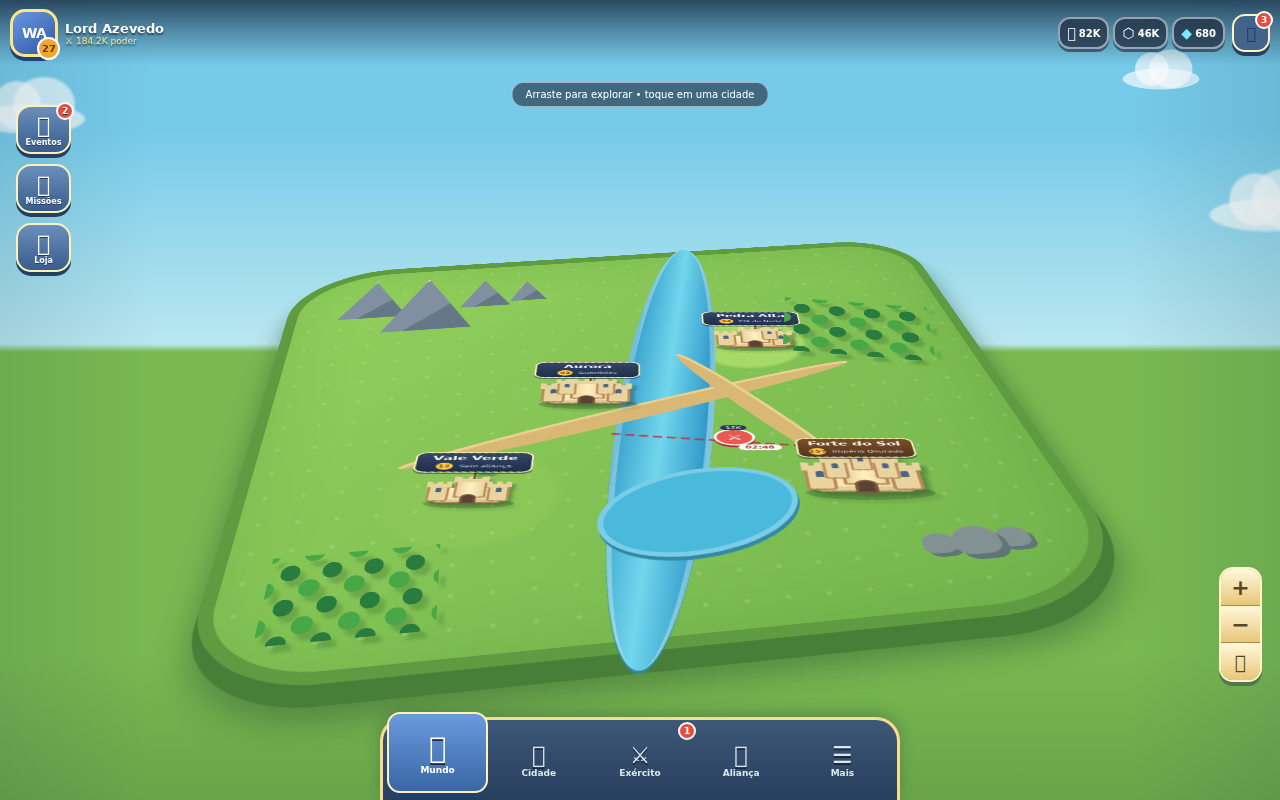
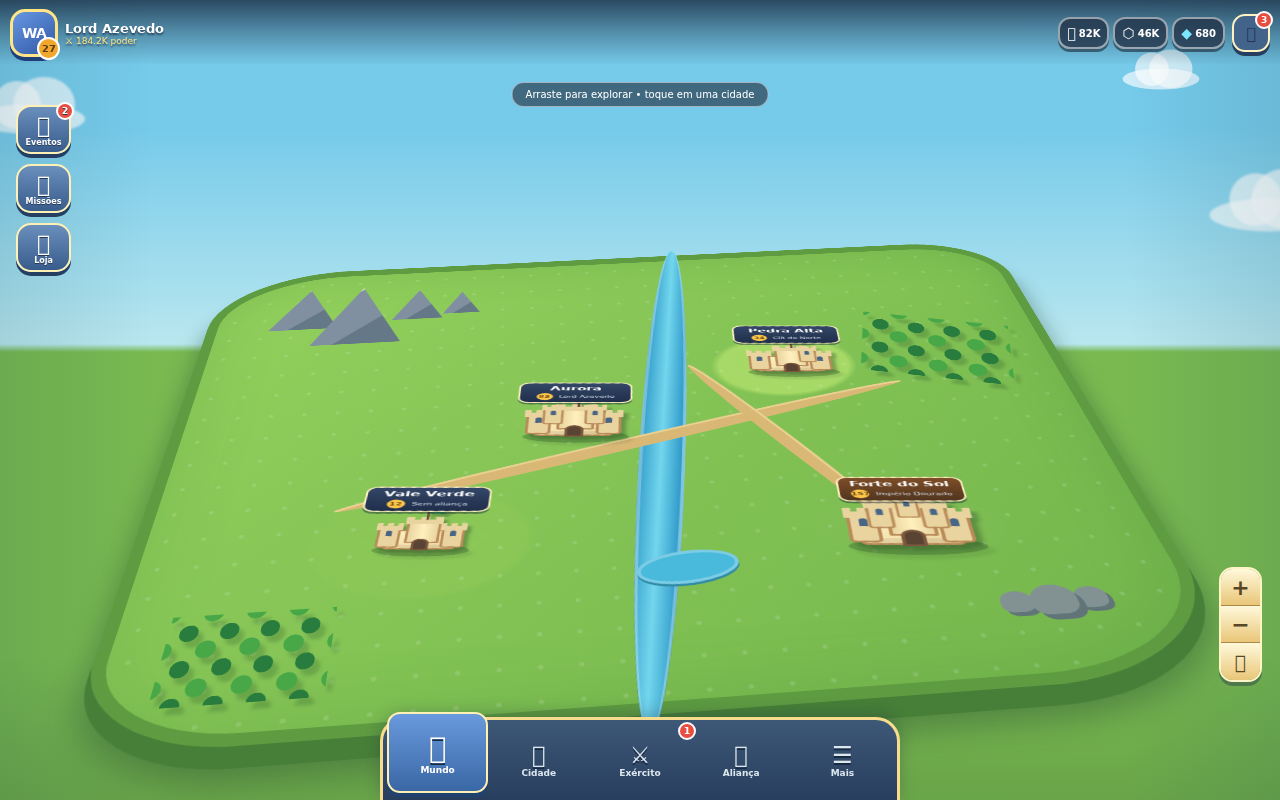
Rebalance world map proportions

Changed region(s): [[0.0625, 0.2812, 0.9688, 1.0]]

diff --git a/styles.css b/styles.css
@@ -13,13 +13,13 @@ button { color:inherit; font:inherit; -webkit-tap-highlight-color:transparent; }
 .clouds i::before { width:48px;height:48px;left:18px;bottom:5px }.clouds i::after { width:62px;height:55px;right:10px;bottom:2px }
 .clouds i:nth-child(1){top:13%;left:-25px}.clouds i:nth-child(2){top:8%;right:5%;transform:scale(.7)}.clouds i:nth-child(3){top:25%;right:-45px;transform:scale(1.1)}
 
-.world { --pan-x:0px;--pan-y:20px;--zoom:.88; position:absolute; z-index:1; top:48%; left:50%; width:950px; height:760px; transform:translate(calc(-50% + var(--pan-x)),calc(-50% + var(--pan-y))) scale(var(--zoom)); transform-origin:center; transition:transform .12s ease-out; perspective:1100px; }
+.world { --pan-x:0px;--pan-y:20px;--zoom:.88; position:absolute; z-index:1; top:52%; left:50%; width:1180px; height:820px; transform:translate(calc(-50% + var(--pan-x)),calc(-50% + var(--pan-y))) scale(var(--zoom)); transform-origin:center; transition:transform .12s ease-out; perspective:1250px; }
 .dragging .world { transition:none; }
-.terrain { position:absolute; inset:5%; border:13px solid #5e9b41; border-radius:16% 12% 18% 14%; background:radial-gradient(ellipse at 68% 34%,#a6d966 0 8%,transparent 9%),radial-gradient(ellipse at 27% 70%,#8ac756 0 10%,transparent 11%),linear-gradient(135deg,#94d15d,#74b64d); box-shadow:0 22px 0 #477f38,0 36px 30px rgba(32,69,48,.4),inset 0 0 80px rgba(54,124,48,.2); transform:rotateX(52deg) rotateZ(-7deg); transform-style:preserve-3d; }
+.terrain { position:absolute; inset:5%; border:13px solid #5e9b41; border-radius:16% 12% 18% 14%; background:radial-gradient(ellipse at 68% 34%,#a6d966 0 8%,transparent 9%),radial-gradient(ellipse at 27% 70%,#8ac756 0 10%,transparent 11%),linear-gradient(135deg,#94d15d,#74b64d); box-shadow:0 22px 0 #477f38,0 36px 30px rgba(32,69,48,.4),inset 0 0 80px rgba(54,124,48,.2); transform:rotateX(48deg) rotateZ(-5deg); transform-style:preserve-3d; }
 .terrain-grid { position:absolute;inset:0;border-radius:inherit;opacity:.13;background-image:radial-gradient(circle,#fff 0 2px,transparent 3px);background-size:38px 38px; }
-.river { position:absolute;left:47%;top:-4%;width:13%;height:110%;border:7px solid rgba(255,255,255,.33);border-width:0 7px;border-radius:45% 55%;background:linear-gradient(90deg,#3ca5cf,#72d6ed 48%,#3099c9);transform:rotate(13deg);box-shadow:0 3px 0 #2e88a8; }
-.lake { position:absolute;left:42%;top:68%;width:25%;height:18%;border:6px solid rgba(255,255,255,.28);border-radius:50%;background:#49b9dc;box-shadow:0 5px 0 #328ba5;transform:rotate(-9deg); }
-.road { position:absolute;height:4%;border-radius:50%;background:#d9b875;box-shadow:inset 0 4px rgba(255,239,182,.45); }
+.river { position:absolute;left:50%;top:-4%;width:5%;height:109%;border:4px solid rgba(255,255,255,.33);border-width:0 4px;border-radius:45% 55%;background:linear-gradient(90deg,#3ca5cf,#72d6ed 48%,#3099c9);transform:rotate(8deg);box-shadow:0 3px 0 #2e88a8; }
+.lake { position:absolute;left:48%;top:75%;width:10%;height:6%;border:4px solid rgba(255,255,255,.28);border-radius:50%;background:#49b9dc;box-shadow:0 3px 0 #328ba5;transform:rotate(-5deg); }
+.road { position:absolute;height:2.6%;border-radius:50%;background:#d9b875;box-shadow:inset 0 3px rgba(255,239,182,.45); }
 .road-a { left:17%;top:50%;width:65%;transform:rotate(-14deg) }.road-b { left:49%;top:52%;width:34%;transform:rotate(57deg) }
 .mountains { position:absolute;top:8%;left:7%;display:flex;gap:5px;transform:translateZ(18px); }
 .mountains i { width:85px;height:85px;clip-path:polygon(50% 0,100% 100%,0 100%);background:linear-gradient(135deg,#e9edf0 0 25%,#8090a0 26% 63%,#657887 64%);filter:drop-shadow(8px 11px 2px rgba(42,76,44,.28)); }
@@ -28,7 +28,7 @@ button { color:inherit; font:inherit; -webkit-tap-highlight-color:transparent; }
 .forest-a{top:25%;right:5%;transform:translateZ(12px) rotate(15deg)}.forest-b{bottom:2%;left:4%;transform:translateZ(12px) scale(.85)}
 .rocks { position:absolute;right:8%;bottom:10%;display:flex;gap:4px }.rocks i{display:block;width:33px;height:26px;border-radius:50% 50% 35% 35%;background:#829293;box-shadow:4px 5px #617578}.rocks i:nth-child(2){transform:scale(1.4)}
 
-.city { position:absolute;z-index:4;left:var(--x);top:var(--y);width:150px;height:150px;padding:0;border:0;background:transparent;cursor:pointer;transform:translate(-50%,-50%) translateZ(45px) rotateZ(7deg) rotateX(-52deg);transform-style:preserve-3d; }
+.city { position:absolute;z-index:4;left:var(--x);top:var(--y);width:150px;height:150px;padding:0;border:0;background:transparent;cursor:pointer;transform:translate(-50%,-50%) translateZ(45px) rotateZ(5deg) rotateX(-48deg) scale(1.08);transform-style:preserve-3d; }
 .city-label { position:absolute;z-index:8;top:-7px;left:50%;min-width:125px;padding:5px 11px;border:2px solid #fff2c1;border-radius:12px;background:linear-gradient(#344767,#1f2e4b);box-shadow:0 4px 0 rgba(15,31,52,.45);color:white;text-align:center;transform:translateX(-50%);white-space:nowrap;pointer-events:none; }
 .city-label strong { display:block;font:800 15px/1.1 "Baloo 2" }.city-label small { color:#d9e2f1;font-size:9px }.city-label small b{display:inline-grid;width:18px;height:18px;margin-right:4px;border-radius:50%;background:var(--gold);color:#6d4812;place-items:center}
 .castle { position:absolute;top:43px;left:20px;width:110px;height:94px;filter:drop-shadow(5px 7px 2px rgba(35,61,36,.35));pointer-events:none;--stone:#e9d4a0;--dark:#b98b58;--roof:#2e65bd; }
@@ -60,6 +60,6 @@ button { color:inherit; font:inherit; -webkit-tap-highlight-color:transparent; }
 
 dialog{color:var(--ink);font-family:"Nunito",sans-serif}.attack-dialog,.battle-report{width:min(92vw,430px);padding:0;border:3px solid #fff0bc;border-radius:23px;background:linear-gradient(145deg,#fff9df,#e5c47d);box-shadow:0 9px 0 #8b6234,0 20px 55px rgba(22,35,50,.55)}dialog::backdrop{background:rgba(25,40,52,.56);backdrop-filter:blur(2px)}.attack-dialog form,.battle-report form{position:relative;padding:24px 20px 20px}.dialog-kicker{color:#9b5c27;font-size:10px;font-weight:900;letter-spacing:.12em}.attack-dialog h2,.battle-report h2{margin:2px 0 16px;font:800 22px "Baloo 2"}.attack-dialog label{display:block;margin-bottom:5px;font-size:11px;font-weight:900}.troop-input{display:flex}.troop-input input{min-width:0;flex:1;padding:11px;border:2px solid #aa7b43;border-radius:12px 0 0 12px;background:#fffdf1;font:900 17px "Nunito"}.troop-input button{border:2px solid #8b5b2b;border-left:0;border-radius:0 12px 12px 0;background:#d9a64e;font-size:10px;font-weight:900}.attack-estimate{display:grid;grid-template-columns:1fr 1fr;gap:8px;margin:12px 0}.attack-estimate span{padding:9px;border-radius:11px;background:rgba(255,255,255,.55);font-size:10px}.attack-estimate b{display:block;font-size:14px}.form-error{min-height:18px;margin:0;color:#aa302e;font-size:10px;font-weight:900}.confirm-attack{width:100%;padding:11px;border:2px solid #8e2f2a;border-radius:12px;background:linear-gradient(#ef6758,#c94038);box-shadow:0 4px 0 #852c28;color:#fff;font-weight:900}.battle-report h2.victory{color:#27804a}.battle-report h2.defeat{color:#b53532}.battle-report dl{display:grid;grid-template-columns:1fr auto;gap:6px;margin:12px 0;padding:12px;border-radius:12px;background:rgba(255,255,255,.55);font-size:11px}.battle-report dd{margin:0;font-weight:900}.battle-report p{margin:0}.battle-report>form>strong{display:block;margin-bottom:14px;text-align:center}.attack-alert{position:absolute;z-index:24;top:87px;left:50%;transform:translateX(-50%)}.attack-alert button{padding:8px 14px;border:2px solid white;border-radius:13px;background:#c83d36;box-shadow:0 4px 0 #852c28;color:white}.attack-alert strong,.attack-alert span{display:block}.attack-alert span{font-size:11px;text-align:center}.city-actions button:disabled{filter:grayscale(.7);opacity:.55}
 
-@media (max-width:600px){.player-summary{display:none}.resources{gap:2px}.resource{padding:0 5px}.world{top:47%;width:820px;height:680px}.terrain{inset:4%}.city-panel{bottom:102px}}
+@media (max-width:600px){.player-summary{display:none}.resources{gap:2px}.resource{padding:0 5px}.world{top:49%;width:700px;height:640px}.terrain{inset:4%}.city{transform:translate(-50%,-50%) translateZ(45px) rotateZ(5deg) rotateX(-48deg) scale(1.04)}.city-panel{bottom:102px}}
 @media (min-width:700px){.city-panel{right:20px;bottom:105px;left:auto;width:390px}.side-actions{top:105px;left:16px}.zoom-controls{right:18px}.bottom-nav{right:50%;left:50%;width:520px;border:3px solid #f8dc8d;border-bottom:0;border-radius:24px 24px 0 0;transform:translateX(-50%)}}
 @media (prefers-reduced-motion:reduce){*,*::before,*::after{animation:none!important;transition:none!important}}
